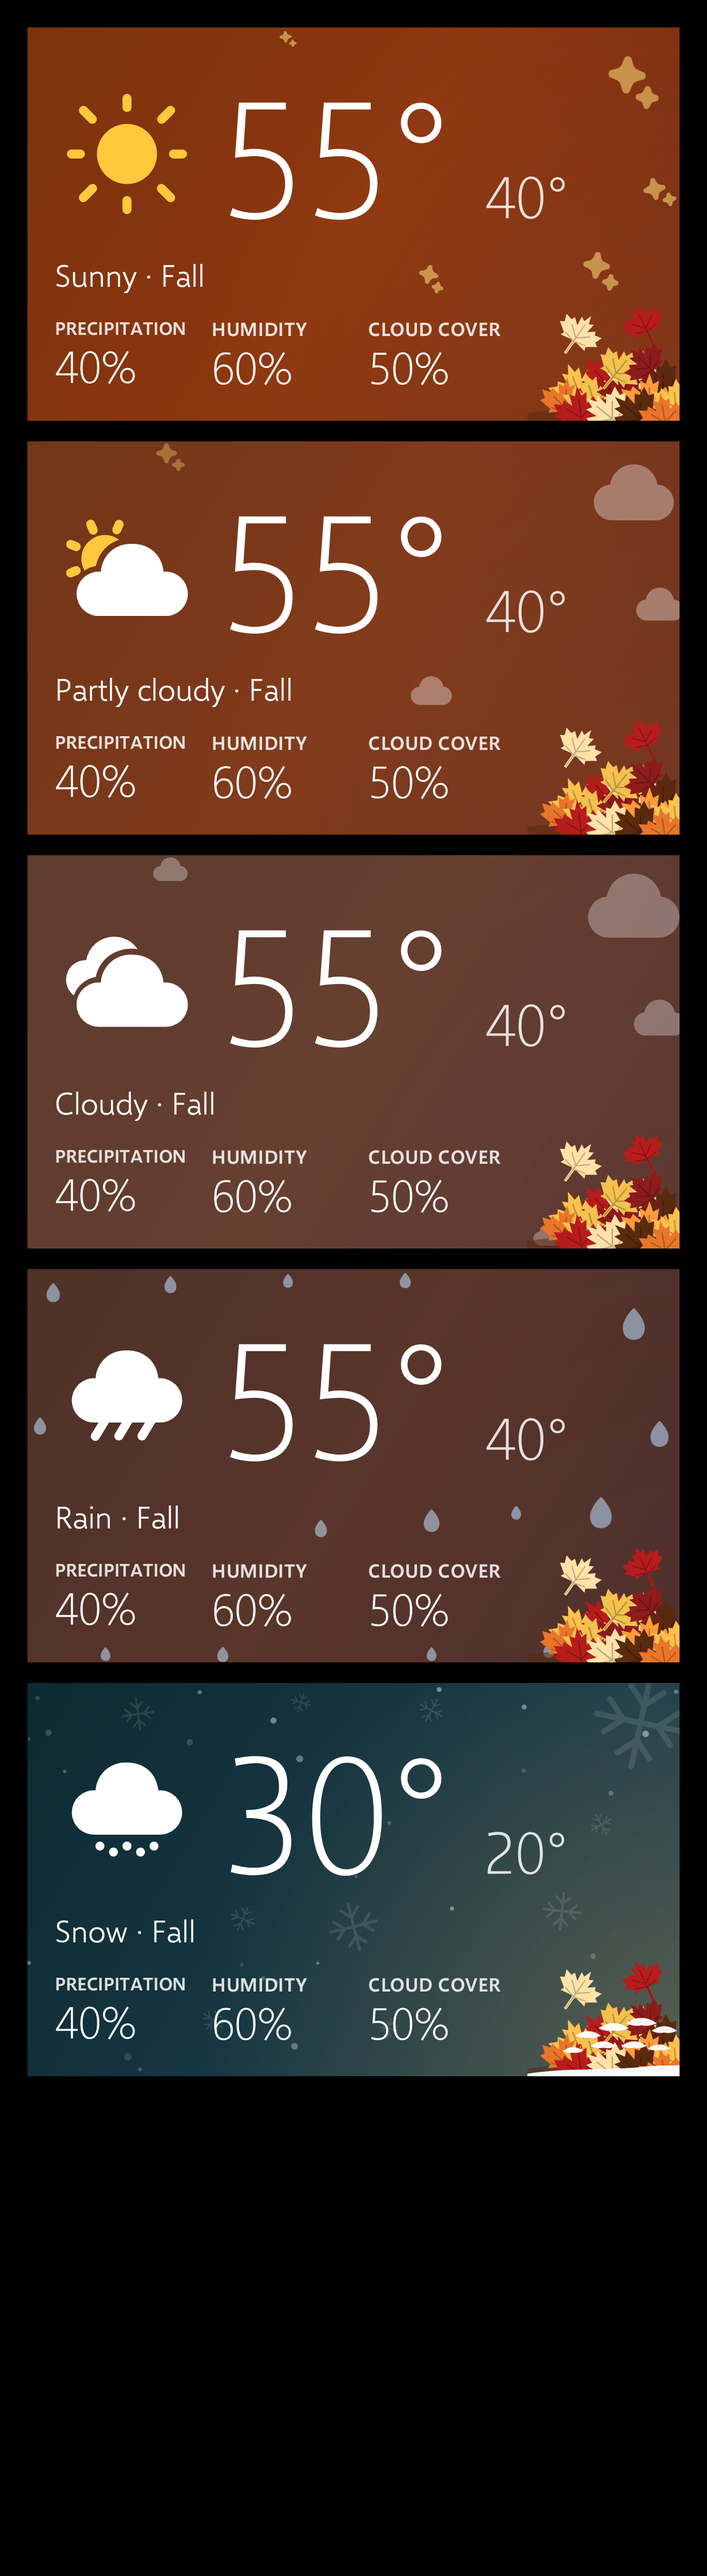
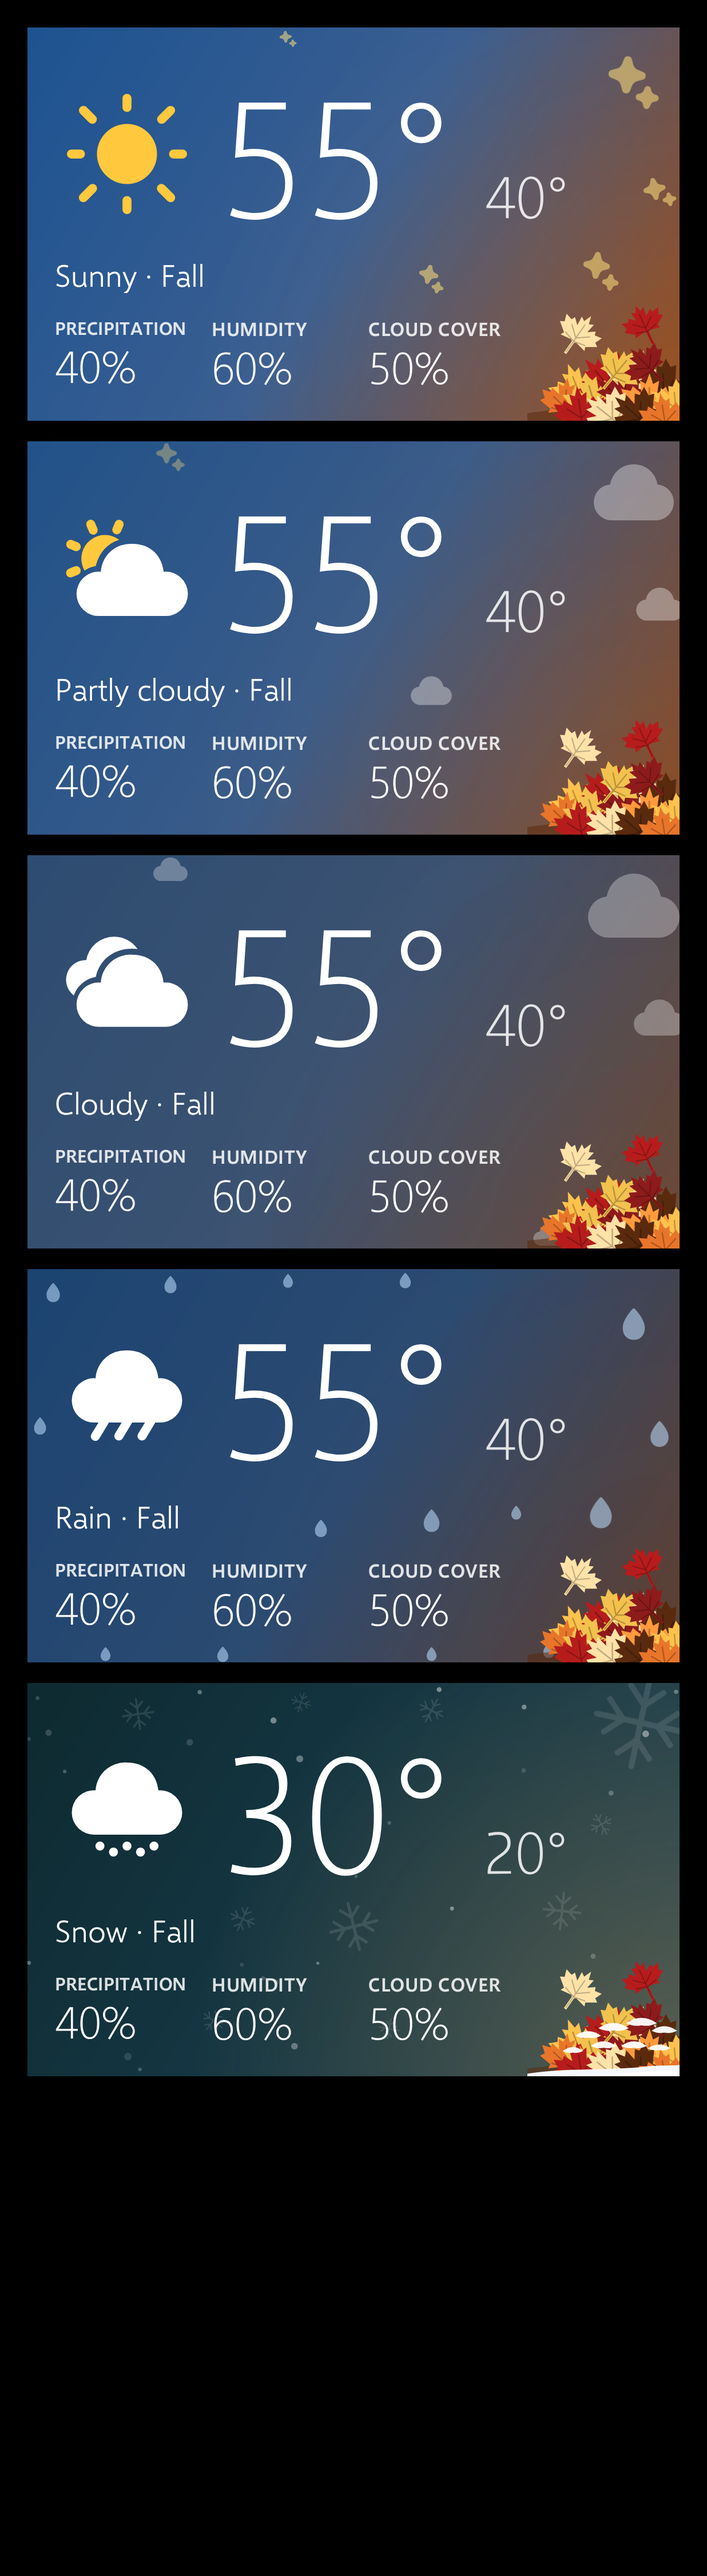
Blue skies on sunny cards, fading to each season's horizon (WX-6.12)
Summer is a bright summer blue (Chris, 9 Nov); spring to pink, fall to amber, winter pale ice.
Brightest that keeps text at 4.5:1. 57 tests.

Claude-Session: https://claude.ai/code/session_01Jom9oDFwipGRrySzF84zY7

diff --git a/app/src/main/java/io/github/wotworth/weather/WeatherTokens.kt b/app/src/main/java/io/github/wotworth/weather/WeatherTokens.kt
@@ -147,7 +147,7 @@ object WeatherTokens {
     /**
      * WX-6.12, WX-6.13 (Chris, 9 Nov, third pass): the season sets the card's colours, its light and
      * the scene in the bottom-right corner; the decorations across the card show only the weather
-     * ([WEATHER]). [Style.stops] is the sunny card; [TONE] turns it into the other conditions. A
+     * ([WEATHER]). [Style.stops] is the sunny card: a blue sky with the season's horizon (Chris, 9 Nov); [TONE] turns it into the other conditions. A
      * snowy day uses the festive snow card (WX-6.11) with the season's scene under snow.
      */
     object Seasons {
@@ -167,19 +167,18 @@ object WeatherTokens {
         class Tone(val toward: Int, val share: Float, val darken: Float, val glowFactor: Float)
 
         val STYLE: Map<Season, Style> = mapOf(
-            // Winter: crisp ice blue, cool pale light from the top-left; snow-covered pines.
-            Season.WINTER to Style(intArrayOf(0xFF15304F.toInt(), 0xFF1B4066.toInt(), 0xFF24507A.toInt()),
+            // Winter: a crisp, pale winter sky (steel to ice blue), cool light from the top-left; snowy pines.
+            Season.WINTER to Style(intArrayOf(0xFF224873.toInt(), 0xFF2C5273.toInt(), 0xFF395B73.toInt()),
                 0xFFE6F2FF.toInt(), 0.10f, CORNER_TL, R.drawable.scene_winter, R.drawable.scene_winter, 100f),
-            // Spring, cheery: vivid violet to magenta to raspberry, sunny yellow light; Easter eggs in grass.
-            // As bright as white text allows (4.5:1).
-            Season.SPRING to Style(intArrayOf(0xFF5F2496.toInt(), 0xFF962496.toInt(), 0xFF96245F.toInt()),
-                0xFFFFE680.toInt(), 0.14f, CORNER_TR, R.drawable.scene_spring, R.drawable.scene_spring_snow, 104f),
-            // Summer: deep summer green, a strong golden sun from the top-right; a maple and a cedar.
-            Season.SUMMER to Style(intArrayOf(0xFF0F4D2A.toInt(), 0xFF165C33.toInt(), 0xFF186445.toInt()),
-                0xFFFFC94A.toInt(), 0.15f, CORNER_TR, R.drawable.scene_summer, R.drawable.scene_summer_snow, 104f),
-            // Fall: burnt orange to russet, amber light; a pile of maple leaves.
-            Season.FALL to Style(intArrayOf(0xFF7C330C.toInt(), 0xFF8C3610.toInt(), 0xFF6E2513.toInt()),
-                0xFFFFB347.toInt(), 0.13f, CORNER_BR, R.drawable.scene_fall, R.drawable.scene_fall_snow, 104f),
+            // Spring, cheery: blue sky to a pink-and-raspberry horizon, sunny yellow light; Easter eggs in grass.
+            Season.SPRING to Style(intArrayOf(0xFF27599C.toInt(), 0xFF4E3E9C.toInt(), 0xFF9C2F65.toInt()),
+                0xFFFFE680.toInt(), 0.12f, CORNER_TR, R.drawable.scene_spring, R.drawable.scene_spring_snow, 104f),
+            // Summer: a bright summer-blue sky (Chris, 9 Nov), golden sun from the top-right; a maple and a cedar.
+            Season.SUMMER to Style(intArrayOf(0xFF1247B2.toInt(), 0xFF1554B2.toInt(), 0xFF1961B2.toInt()),
+                0xFFFFD54F.toInt(), 0.08f, CORNER_TR, R.drawable.scene_summer, R.drawable.scene_summer_snow, 104f),
+            // Fall: a clear autumn-blue sky to an amber-rust horizon, amber light; a pile of maple leaves.
+            Season.FALL to Style(intArrayOf(0xFF1D5391.toInt(), 0xFF3A5E91.toInt(), 0xFF914316.toInt()),
+                0xFFFFB347.toInt(), 0.12f, CORNER_BR, R.drawable.scene_fall, R.drawable.scene_fall_snow, 104f),
         )
 
         val TONE: Map<Forecast.Kind, Tone> = mapOf(

diff --git a/docs/REQUIREMENTS.md b/docs/REQUIREMENTS.md
@@ -128,7 +128,7 @@ digit. Focus should be simplicity."
 | WX-6.9 | MUST (Chris, 9 Nov): pressing refresh turns the refresh icon until the update comes back (or 30 s without a network), finishing its turn, so the press visibly registered. |
 | WX-6.10 | MUST (Chris, 9 Nov): pulling the forecast page down from the top and letting go refreshes, as WX-6.9. A small "PULL TO REFRESH" / "RELEASE TO REFRESH" hint shows behind the page; no Material spinner. |
 | WX-6.11 | MUST (Chris, 9 Nov): the app's snow block is "a little Christmas festive", sophisticated and slight: evergreen-to-midnight gradient, a faint warm glow from one corner, a light still snowfall, and a few faint Fluent snowflakes (Chris, 9 Nov: "use snowflakes"). No cartoon shapes. Text keeps 4.5:1 contrast. The tile's snow gradient is unchanged. All year (Chris, 9 Nov, Q6). |
-| WX-6.12 | MUST (Chris, 9 Nov; third pass): the season sets each card's colours, light and corner scene (WX-6.13), by the day's date (winter Dec–Feb, spring Mar–May, summer Jun–Aug, fall Sep–Nov): winter crisp ice blue; spring cheery violet–magenta–raspberry with sunny yellow light, as bright as white text allows; summer deep green with a golden sun; fall burnt orange to russet. The decorations across the card show only the weather: gold sparkles (sun), soft clouds and sparkles (partly cloudy), soft clouds (cloudy), falling drops (rain), snowflakes and snowfall (snow). Decorations are never behind text. Snow uses the festive card (WX-6.11, Q6). Text keeps 4.5:1 contrast. |
+| WX-6.12 | MUST (Chris, 9 Nov; third pass): the season sets each card's colours, light and corner scene (WX-6.13), by the day's date (winter Dec–Feb, spring Mar–May, summer Jun–Aug, fall Sep–Nov): sunny skies are blue (Chris, 9 Nov: summer "a bright summer blue to represent the blue sky"), fading to the season's horizon: winter a pale steel-to-ice sky; spring a blue sky to a pink-and-raspberry horizon with sunny yellow light; summer a bright cobalt summer blue with a golden sun; fall a clear autumn blue to an amber-rust horizon. Partly cloudy greys the sky slightly; cloudy and rain are grey and slate. Each as bright as white text allows. The decorations across the card show only the weather: gold sparkles (sun), soft clouds and sparkles (partly cloudy), soft clouds (cloudy), falling drops (rain), snowflakes and snowfall (snow). Decorations are never behind text. Snow uses the festive card (WX-6.11, Q6). Text keeps 4.5:1 contrast. |
 | WX-6.13 | MUST (Chris, 9 Nov): each card has its season's scene in the bottom-right corner: winter, snow-covered pines; spring, decorated Easter eggs in young grass; summer, a green maple and cedar on grass; fall, a pile of maple leaves. On a snowy day the scene has a light coat of snow (winter's already has). The phrase and figures leave room for the scene; it is never behind text and shrinks or is left out if large text would reach it. |
 
 ## 7. Launcher side (the wp-launcher session does this, not you)

diff --git a/DECISIONS.md b/DECISIONS.md
@@ -37,3 +37,4 @@
 | 2026-11-09 | WX-6.12 | Third pass (Chris): decorations across the card come from the weather, not the season; eggs, leaves and snowflakes appear only in the corner scene or on snowy days. Clouds are Fluent's cloud icon, faint white. | Chris: snowflakes on a sunny day, and eggs that read as raindrops, were confusing. |
 | 2026-11-09 | WX-6.12 | Spring is vivid violet–magenta–raspberry at the brightest that keeps white text at 4.5:1 (searched by brightness). Brighter would need dark text on spring cards. | Chris asked for brighter, cheerier spring; text contrast is a MUST. |
 | 2026-11-09 | WX-6.13 | A snowy day keeps the festive snow card (Q6) and shows the season's scene with a light coat of snow (caps and a drift). Fall's leaves are maple leaves drawn for the app. | Chris: snow coats on spring, summer and fall scenes; maple leaves read better. |
+| 2026-11-09 | WX-6.12 | Sunny cards in every season are a blue sky fading to the season's horizon colour (summer all bright blue), each at the brightest that keeps white and 85% white text at 4.5:1. | Chris: sunny summer should be a bright summer blue for the blue sky; applied to every season so sun always reads as sky, with the season kept in the horizon and the corner scene. |

diff --git a/docs/reports/PH-1.md b/docs/reports/PH-1.md
@@ -74,3 +74,7 @@ Chris: more festive. Each season's cards get a bottom-right scene (WX-6.13): a s
 ## Round 6: weather decorations, maple leaves, snowy scenes (9 Nov)
 
 Decorations across each card now show only the weather (sparkles, clouds, drops, snowflakes); the season shows in the colours and the corner scene. Fall's pile is maple leaves. On snowy days the season's scene has a light coat of snow (bottom row of the seasons sheet). Spring is brighter.
+
+## Round 7: blue skies (9 Nov)
+
+Sunny cards are now a blue sky in every season, fading to the season's horizon colour; summer is a bright summer blue. See the seasons sheet above.

diff --git a/docs/STATUS.md b/docs/STATUS.md
@@ -14,6 +14,7 @@
 - 9 Nov, round 4: seasonal cards, 20 designs (WX-6.12), second pass bolder; snow festive all year (Q6).
 - 9 Nov, round 5: corner scenes and decorated eggs (WX-6.13).
 - 9 Nov, round 6: weather-only decorations, maple leaves, snow-coated scenes, brighter spring.
+- 9 Nov, round 7: blue skies on sunny cards, season horizons.
 - In the session: 57 unit and screenshot tests pass; signed release builds; permission, network and host checks pass and reject their test cases.
 
 ## Next
